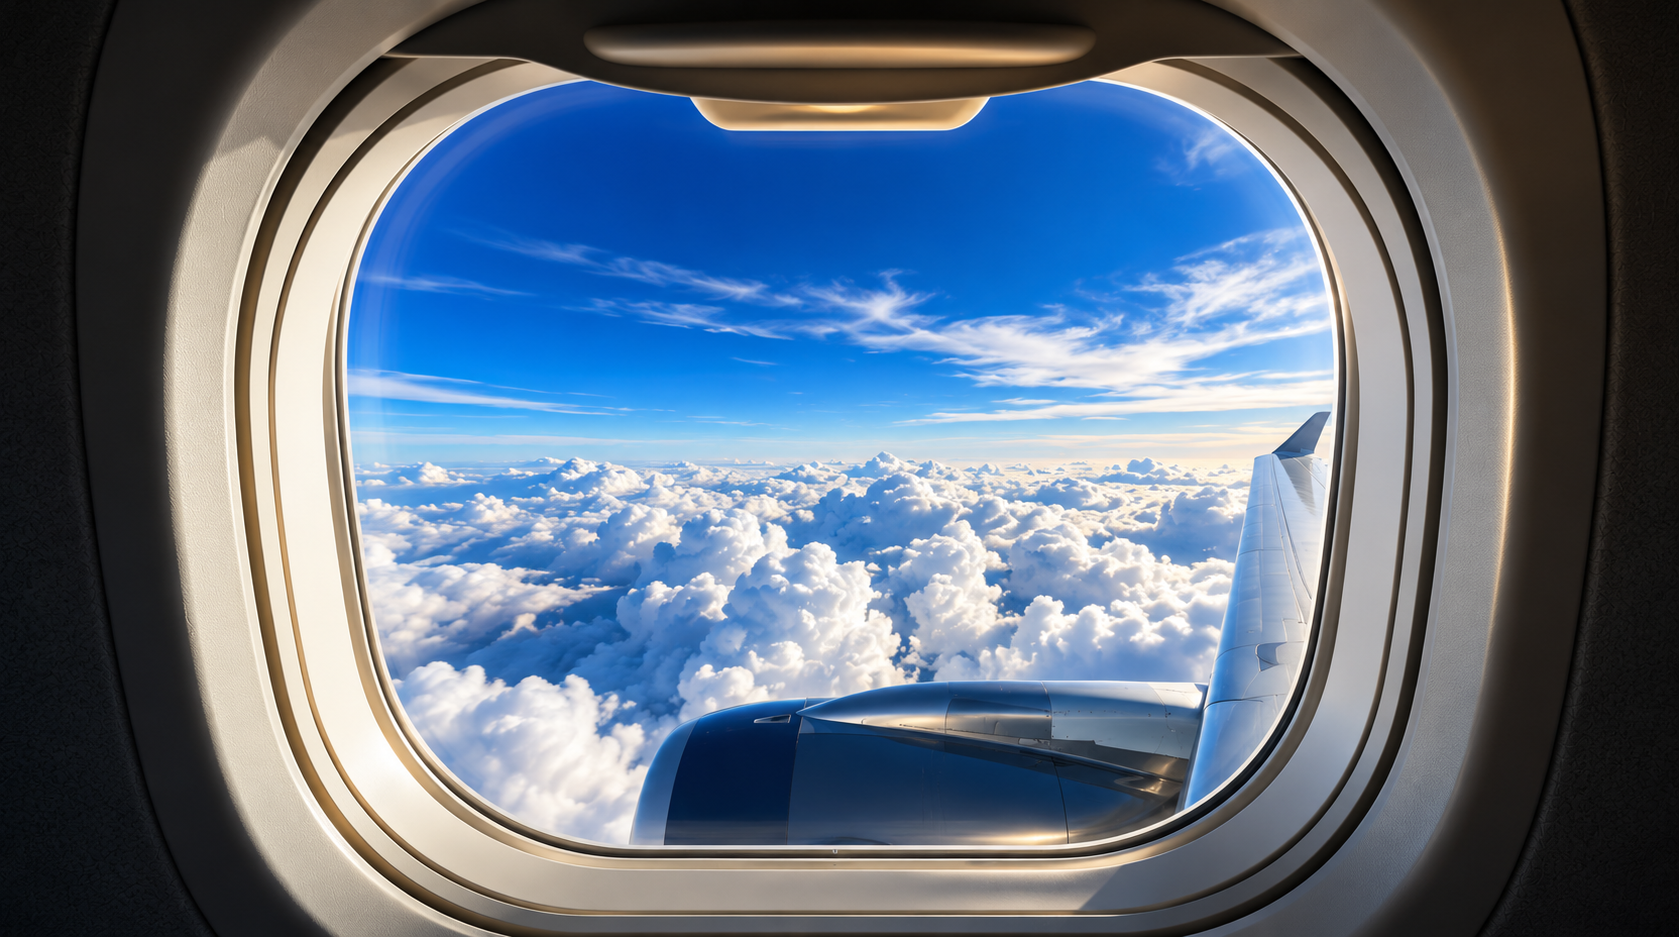
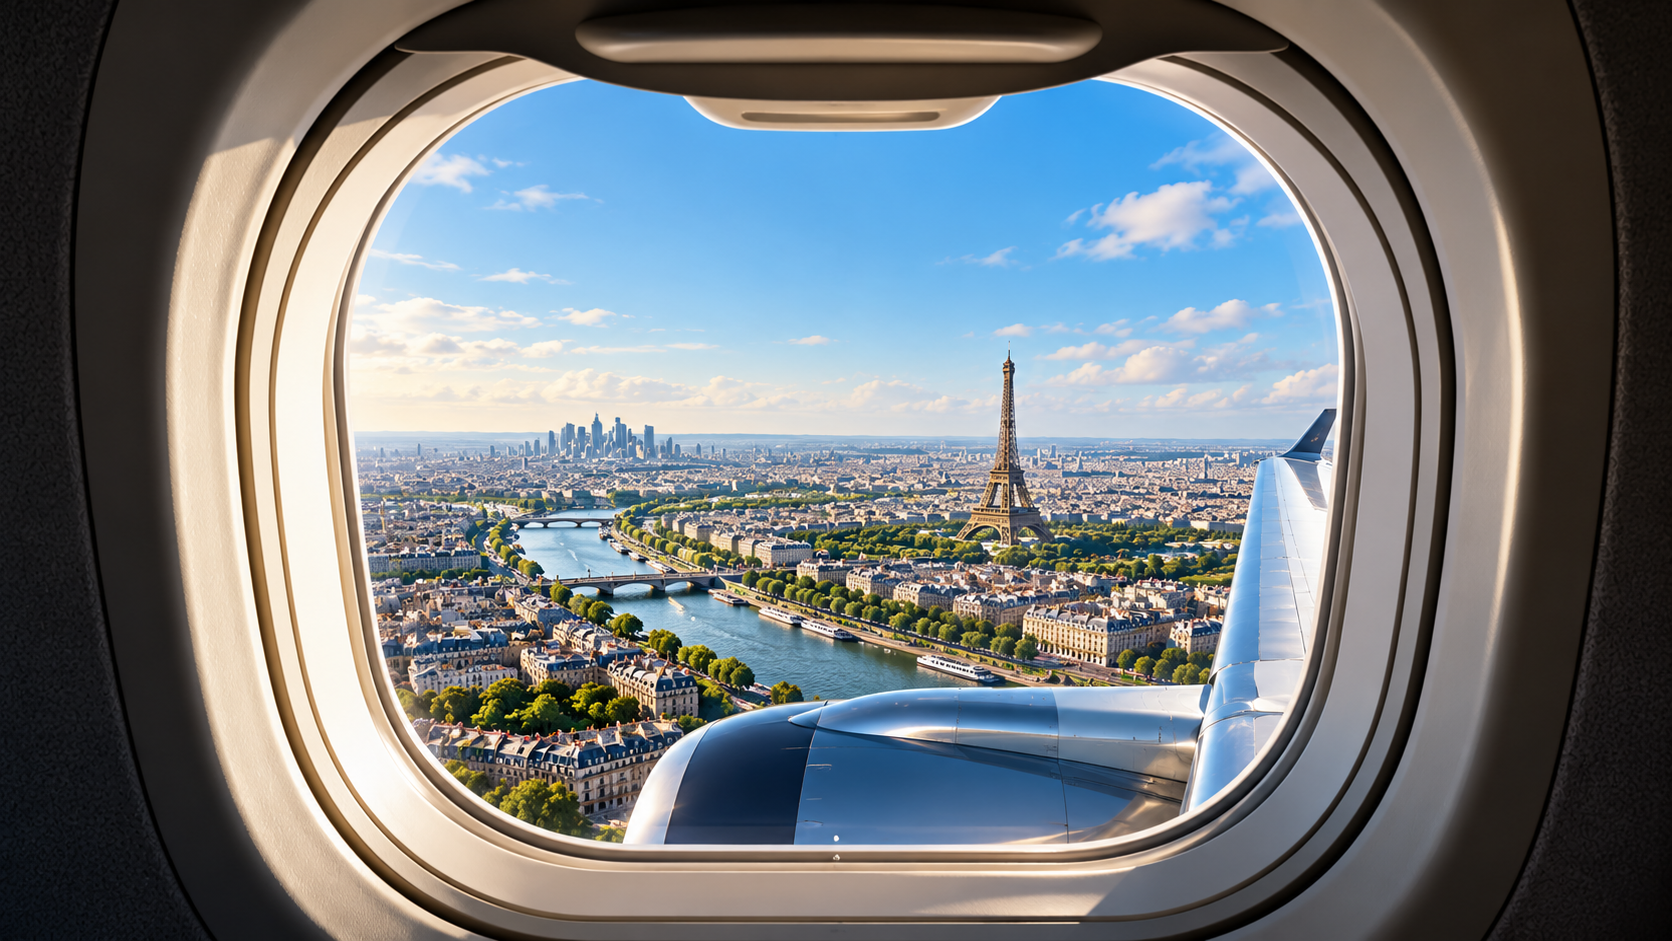
feat: set Paris Eiffel Tower passenger window as hero page background

diff --git a/src/components/WindowHero.jsx b/src/components/WindowHero.jsx
@@ -96,8 +96,8 @@ export default function WindowHero({ onExploreNext }) {
         {/* Full-view authentic passenger cabin window photo */}
         <div ref={windowWrapperRef} className="window-hero-full-rig">
           <img
-            src="/passenger-window-user.png"
-            alt="Commercial airliner passenger window looking out at sky, engine, and clouds"
+            src="/hero-window-paris.png"
+            alt="Commercial airliner passenger window looking out at Paris, Eiffel Tower, river Seine, and jet engine"
             loading="eager"
             decoding="async"
             className="passenger-window-backdrop-img"

diff --git a/src/index.css b/src/index.css
@@ -2234,15 +2234,16 @@ a {
 /* TWO PURE WHITE CLOUDS PARTING SIDEWAYS AT BOTTOM */
 .window-parting-clouds-wrapper {
   position: absolute;
-  bottom: -40px;
+  bottom: -50px;
   left: 0;
   right: 0;
   width: 100vw;
-  height: 48vh;
-  min-height: 350px;
+  height: 20vh;
+  min-height: 140px;
   pointer-events: none;
   z-index: 20;
   overflow: visible;
+  opacity: 0.5;
 }
 
 .parting-cloud {
